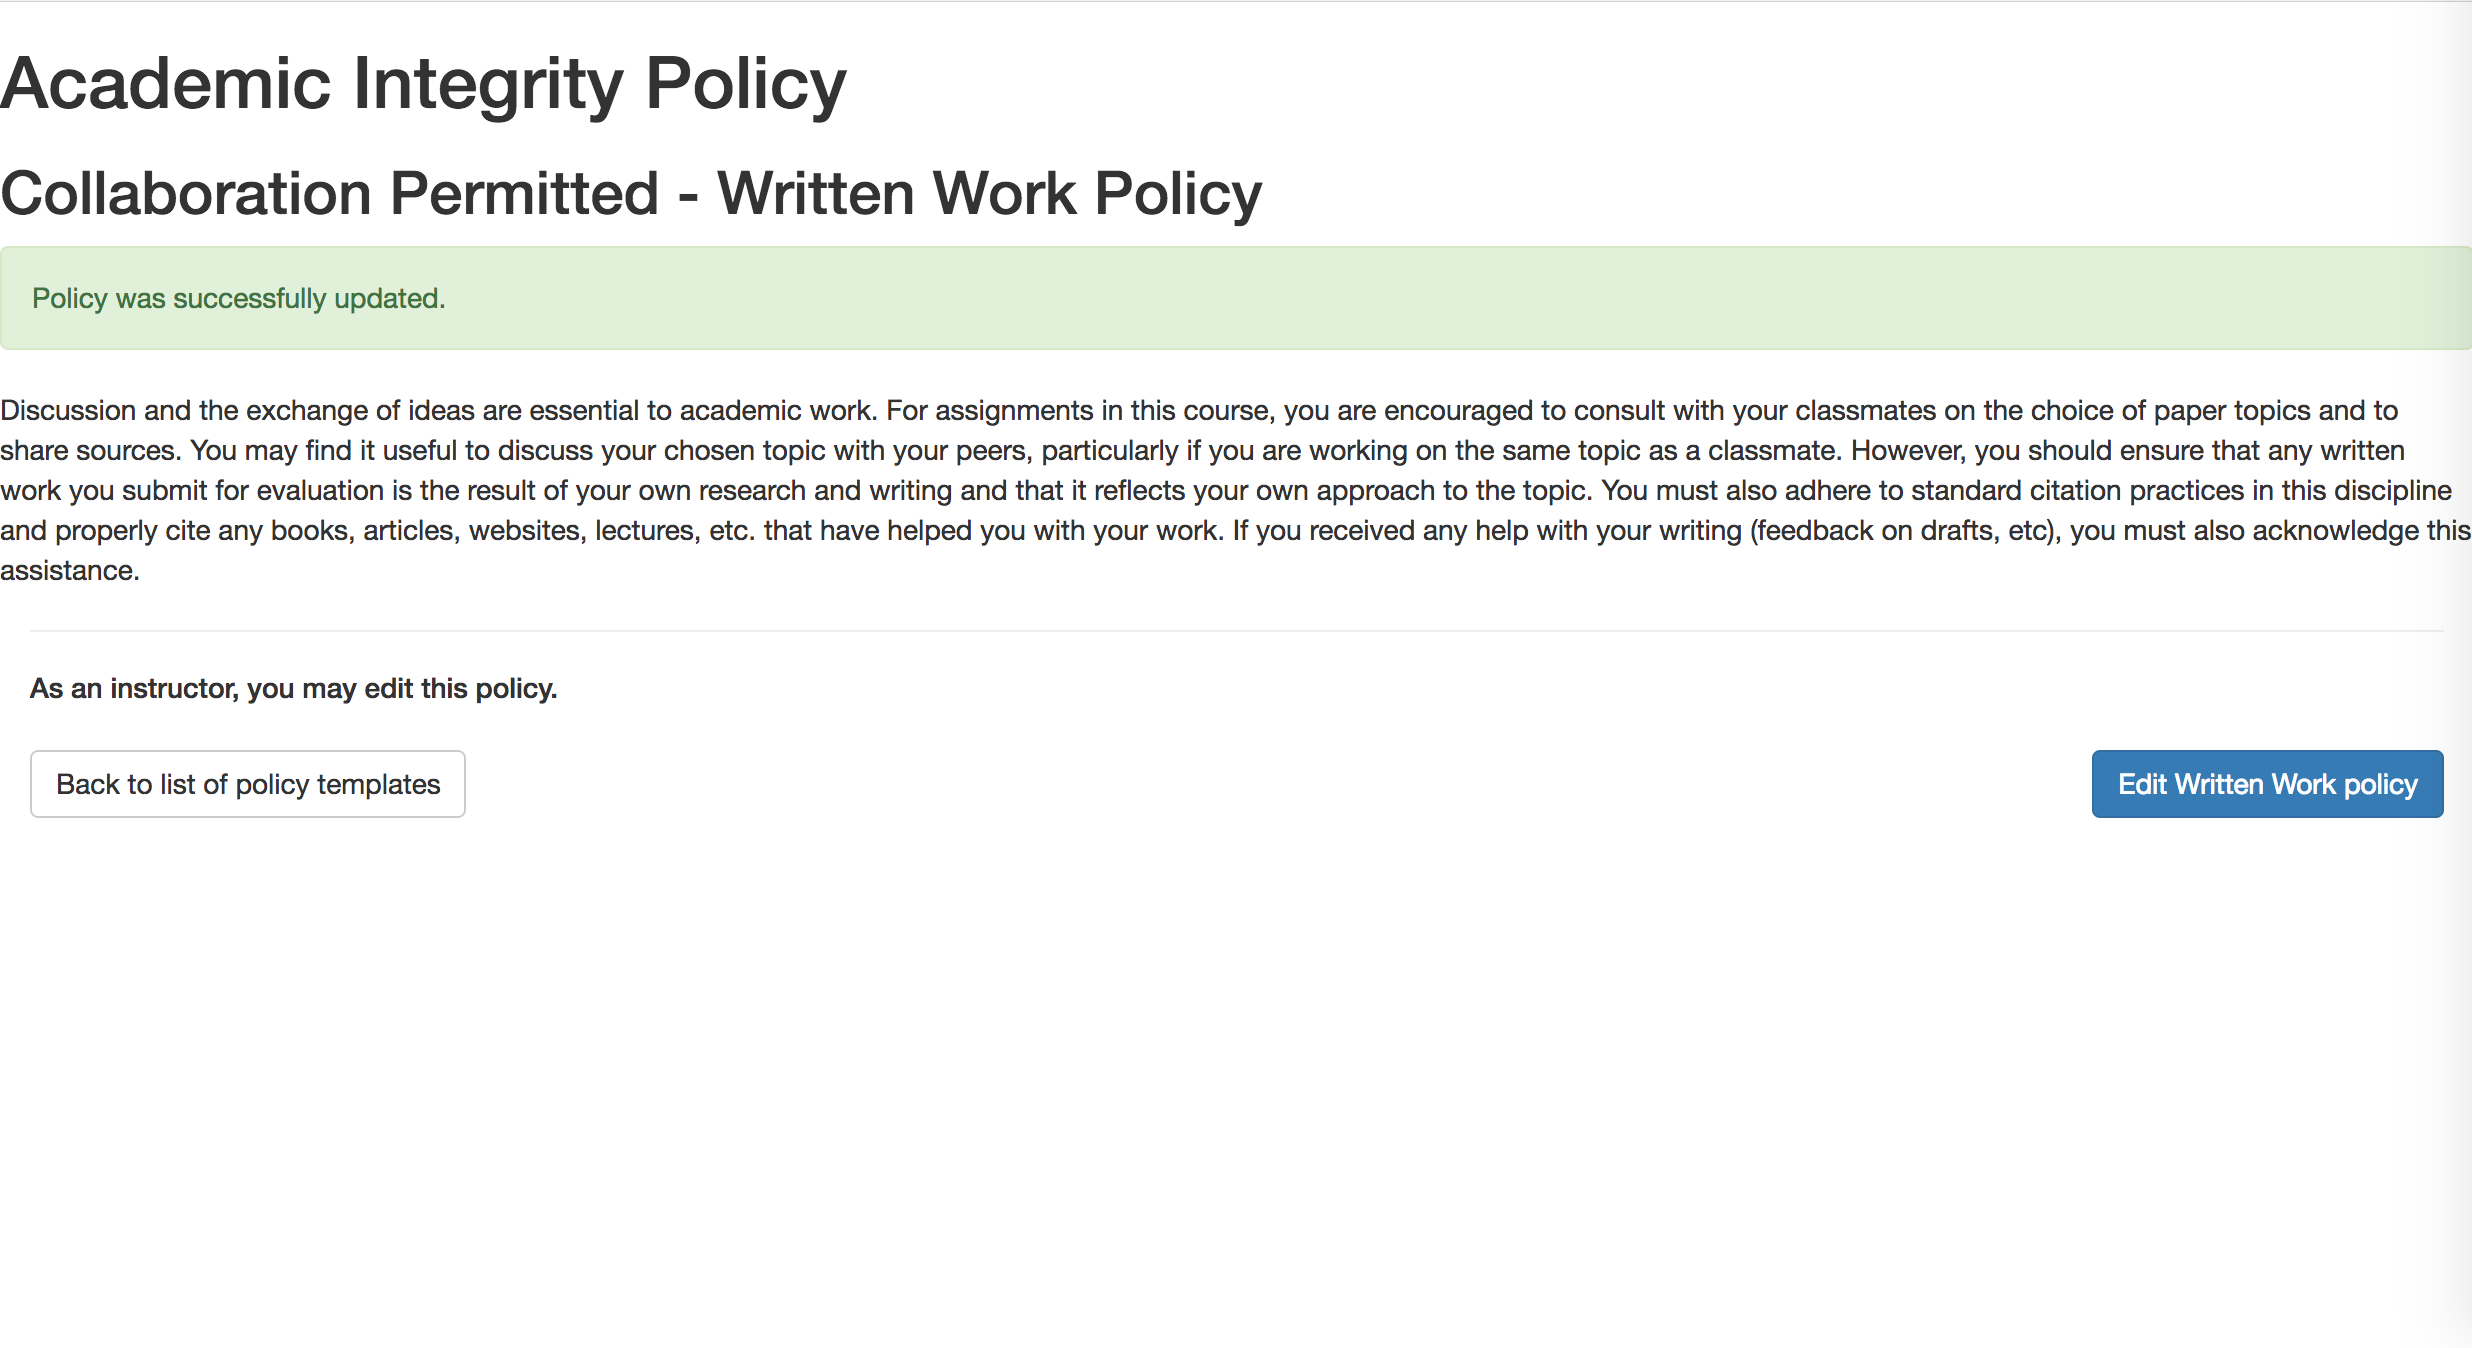
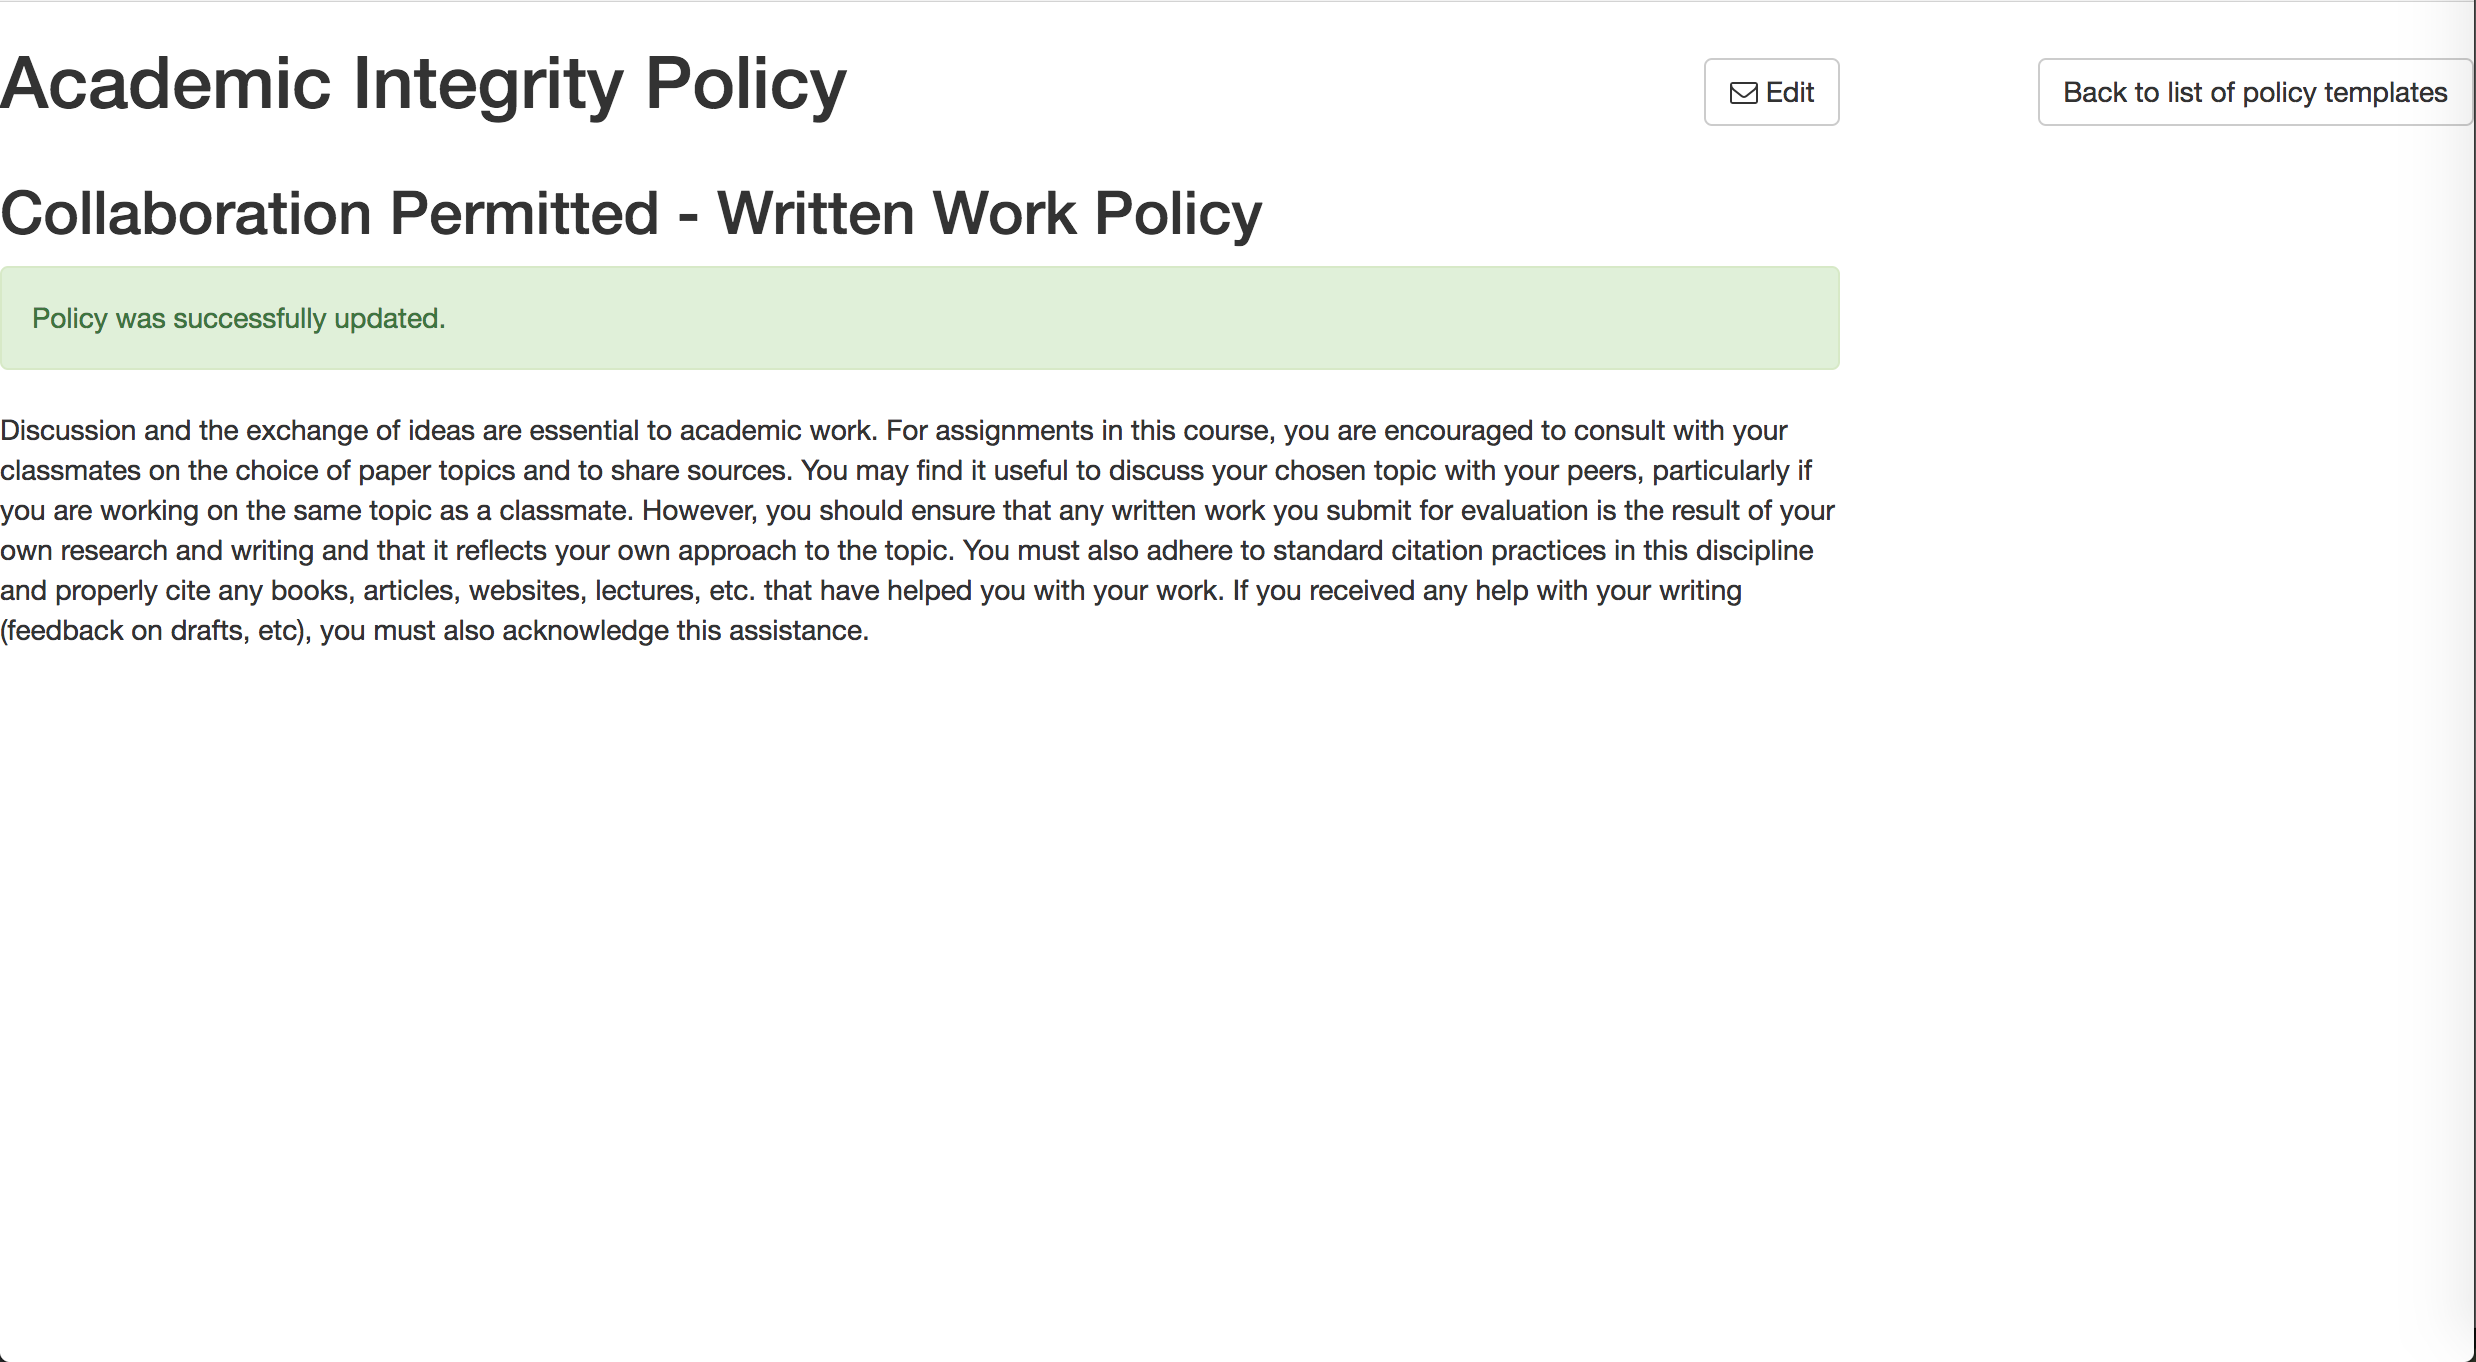
Add files via upload
AcademicIntegrityPolicy_published - revised screen capture and UI code

diff --git a/ui/AcademicIntegrityPolicy_published/index.html b/ui/AcademicIntegrityPolicy_published/index.html
@@ -1,4 +1,4 @@
-
+<!--There are 5 UI comments on this commit-->
 <html>
     <head>
         <title>Academic Integrity Policy</title>
@@ -19,38 +19,50 @@
     </head>
     <body>
 
-        <h1>Academic Integrity Policy</h1>
+<!--UI comment #1 - placing heading and Edit button in Bootstrap grid for alignment-->
+        <div class="row">
+            <div class="col-sm-7">
+                <h1>Academic Integrity Policy</h1>
+             </div>
 
-        <h2>Collaboration Permitted - Written Work Policy</h2>
+<!--UI comment #2 - editing and repositioning the Edit button to match Canvas-->
+            <div class="col-sm-2" style="margin-top: 2em">
+                <a class="btn btn-default pull-right" href="link/to/policy/edit/page" role="button">
+                    <i class="fa fa-envelope-o"></i>
+                    Edit
+                </a>
+            </div>
+
+<!--UI comment #3 - repositioning the Back to list of policy templates button to a right new column-->
+            <div class="col-sm-3" style="margin-top: 2em">
+                <a class="btn btn-default pull-right" href="Link/back/to/list/of/policy/templates" role="button">
+                    Back to list of policy templates
+                </a>
+            </div>
+        </div>
+<!--UI comment #4 - placing page content in Bootstrap grid to align with new columns-->
+        <div class="row">
+            <div class="col-sm-9">
+
+                <h2>Collaboration Permitted - Written Work Policy</h2>
 
 
-        <div class="alert alert-success" role="alert">Policy was successfully updated.</div>
+                <div class="alert alert-success" role="alert">Policy was successfully updated.</div>
 
 
 
 
-       <div class="row">
-            <div class="col-sm-12">
-                Discussion and the exchange of ideas are essential to academic work. For assignments in this course, you are encouraged to consult with your classmates on the choice of paper topics and to share sources. You may find it useful to discuss your chosen topic with your peers, particularly if you are working on the same topic as a classmate. However, you should ensure that any written work you submit for evaluation is the result of your own research and writing and that it reflects your own approach to the topic. You must also adhere to standard citation practices in this discipline and properly cite any books, articles, websites, lectures, etc. that have helped you with your work. If you received any help with your writing (feedback on drafts, etc), you must also acknowledge this assistance.
+               <div class="row">
+                    <div class="col-sm-12">
+                        Discussion and the exchange of ideas are essential to academic work. For assignments in this course, you are encouraged to consult with your classmates on the choice of paper topics and to share sources. You may find it useful to discuss your chosen topic with your peers, particularly if you are working on the same topic as a classmate. However, you should ensure that any written work you submit for evaluation is the result of your own research and writing and that it reflects your own approach to the topic. You must also adhere to standard citation practices in this discipline and properly cite any books, articles, websites, lectures, etc. that have helped you with your work. If you received any help with your writing (feedback on drafts, etc), you must also acknowledge this assistance.
+                    </div>
+                </div>
+
+<!--UI comment # 5 - removing div with As an instructor, you may edit this policy.-->
+
             </div>
         </div>
 
-
-        <div class="col-sm-12">
-            <hr>
-            <h5>
-              As an instructor, you may edit this policy.
-            </h5>
-        </div>
-
-        <div class="col-sm-12" style="margin-top: 1em">
-            <a class="btn btn-primary pull-right" href="link/to/policy/edit/page" role="button">
-                Edit Written Work policy
-            </a>
-            <a class="btn btn-default" href="Link/back/to/list/of/policy/templates" role="button">
-                Back to list of policy templates
-            </a>
-        </div>
 
     </body>
 
